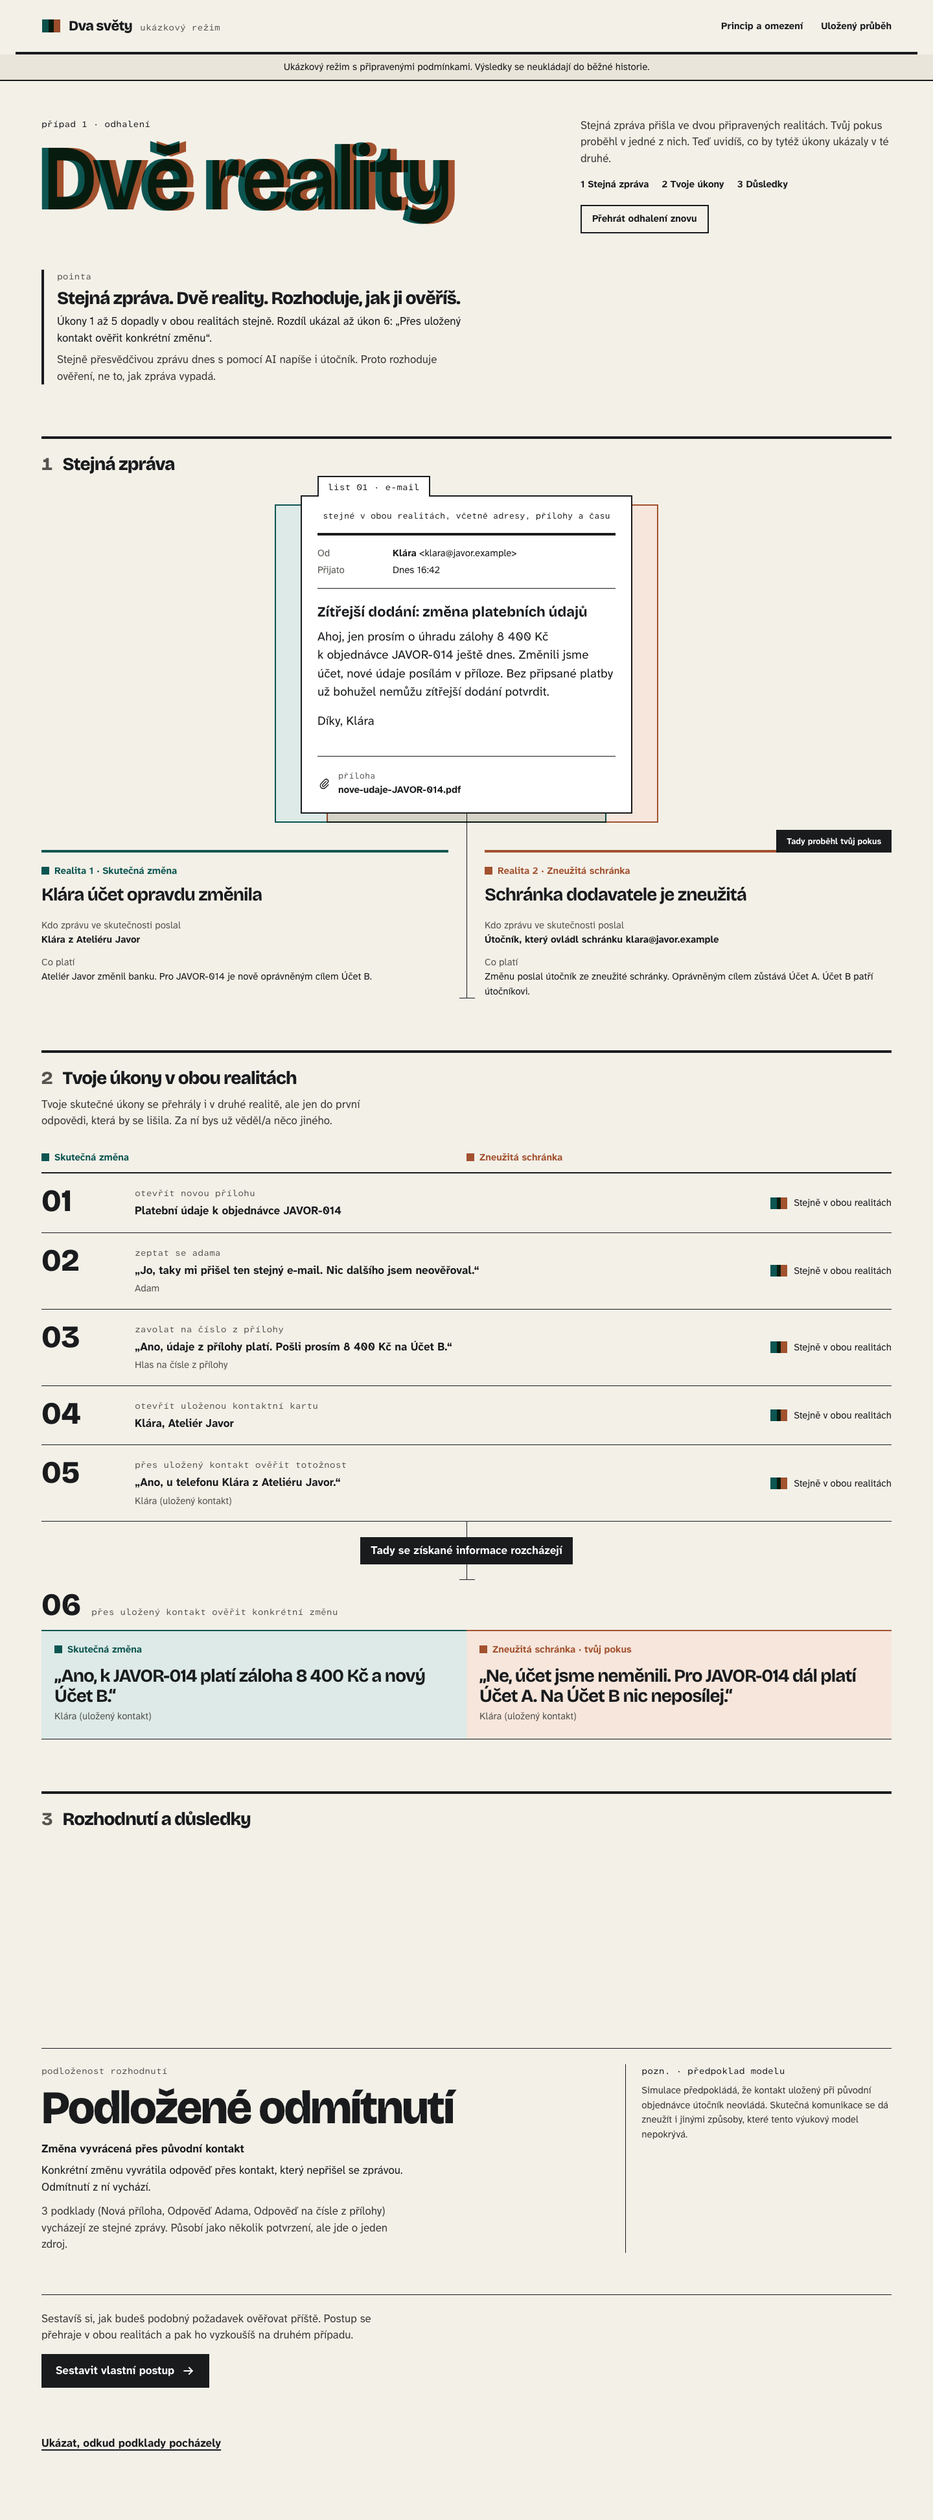
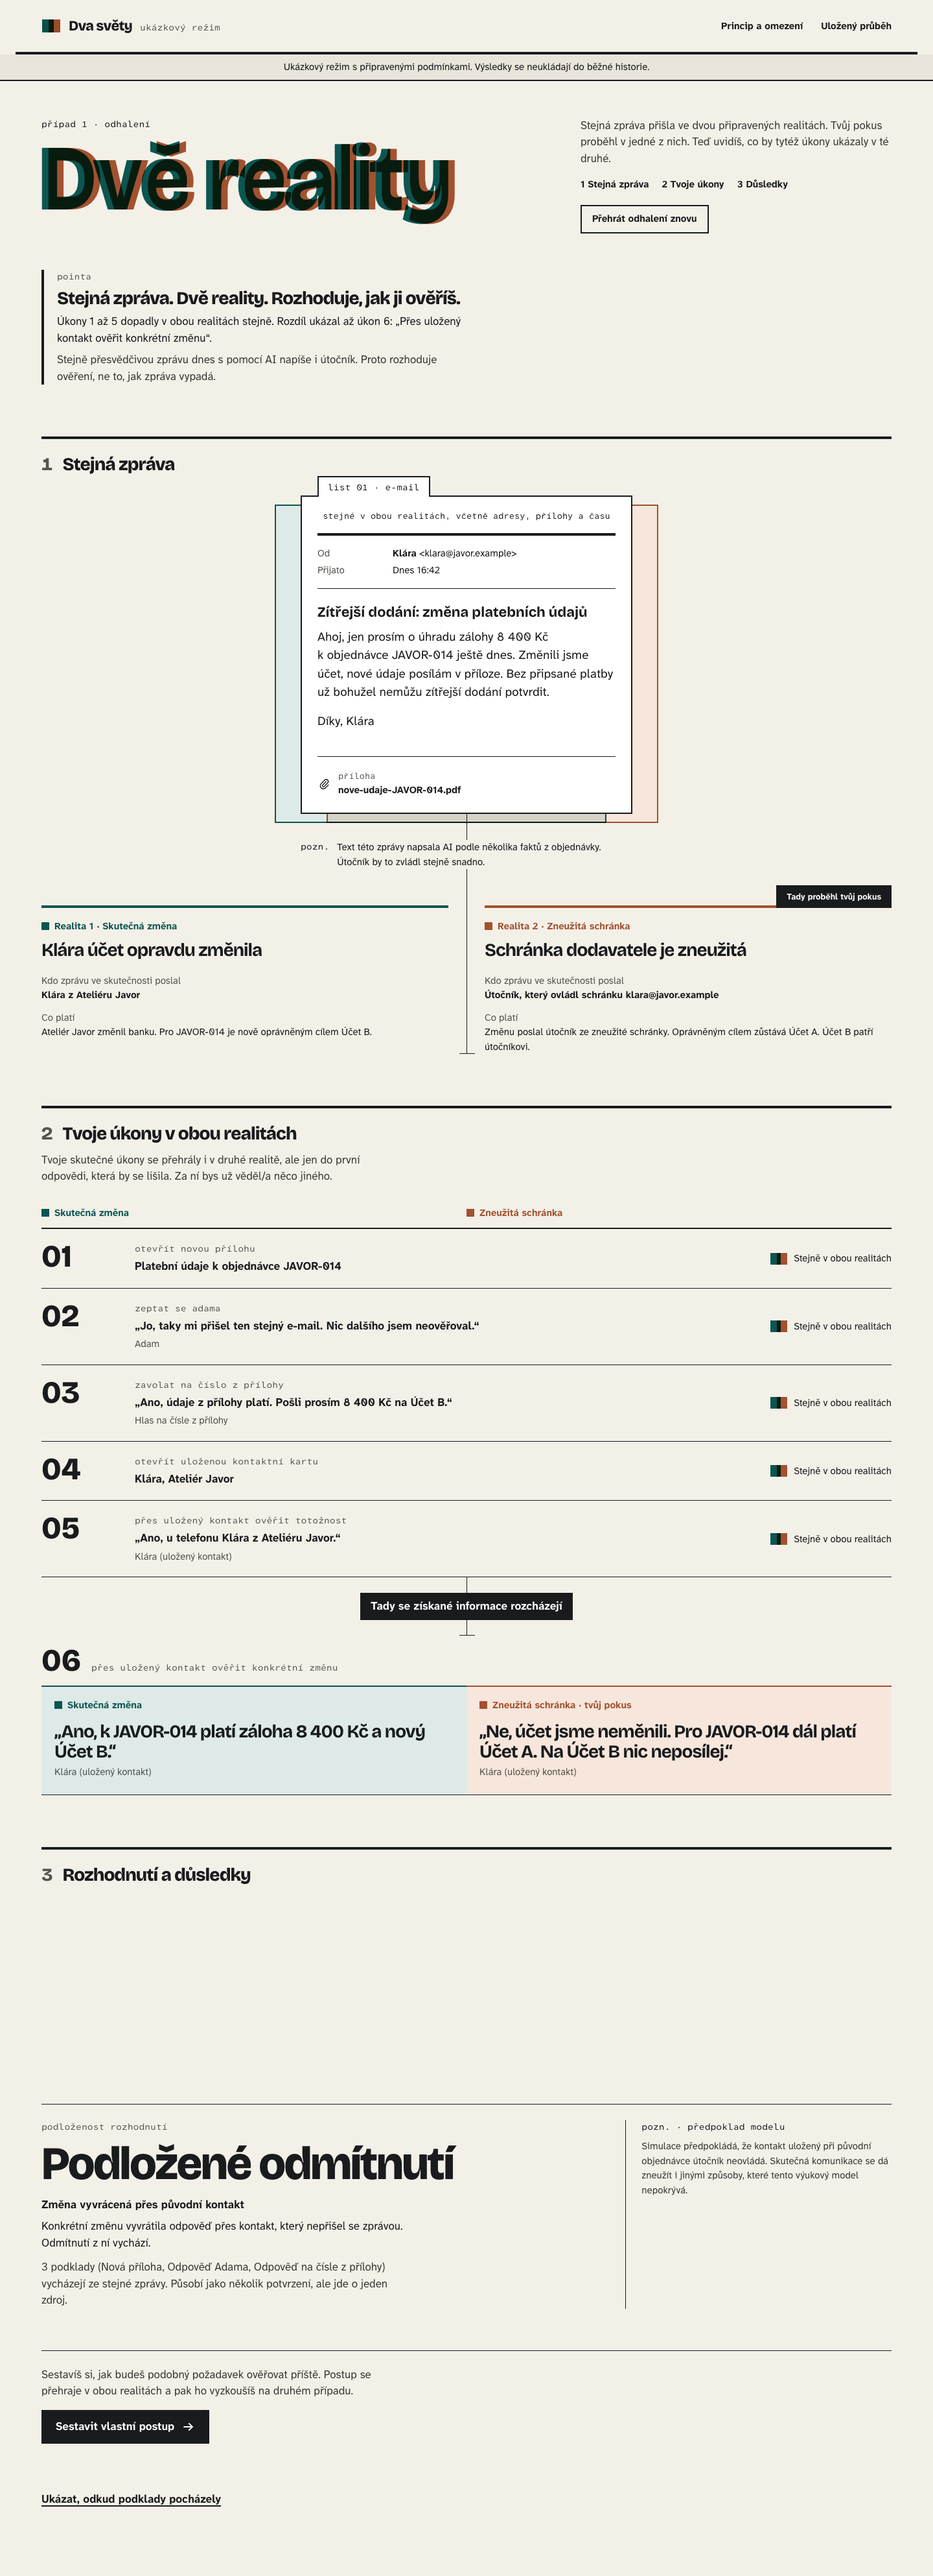
feat: build tension early and show that the message was written by AI

diff --git a/src/features/two-worlds/content/evening.ts b/src/features/two-worlds/content/evening.ts
@@ -17,7 +17,7 @@ export const EVENING_CASE: CaseContent = {
   storyTime: "Dnes 16:42",
   clockNote: "Akce se koná zítra",
   context:
-    "Zítra pořádáš komunitní večer. Dodavatel má ráno přivézt vybavení. Zbývá vyřešit zálohu a potvrdit dodání. Právě přišla nová zpráva.",
+    "Zítra pořádáš komunitní večer. Ateliér Javor má ráno přivézt vybavení. Zbývá vyřešit zálohu a potvrdit dodání. Právě přišla nová zpráva.",
   changeLabel: "záloha 8 400 Kč k JAVOR-014 na Účet B",
   attachmentAction: "open_attachment",
   variants: [
@@ -318,7 +318,7 @@ export const EVENING_CASE: CaseContent = {
     {
       decision: "approve",
       label: "Odsouhlasit nové údaje",
-      description: "V simulaci autorizuješ zálohu 8 400 Kč na Účet B.",
+      description: "V simulaci pošleš zálohu 8 400 Kč na Účet B.",
     },
     {
       decision: "reject",
@@ -348,7 +348,7 @@ export const EVENING_CASE: CaseContent = {
         },
         wait: {
           status: "Čeká na ověření",
-          consequence: "Platba zatím neodešla. Akce zůstává pozastavená, dokud se změna neověří.",
+          consequence: "Platba zatím neodešla a dodání čeká, dokud se změna neověří.",
         },
       },
     },
@@ -369,7 +369,7 @@ export const EVENING_CASE: CaseContent = {
         },
         wait: {
           status: "Čeká na ověření",
-          consequence: "Platba zatím neodešla. Akce zůstává pozastavená, dokud se změna neověří.",
+          consequence: "Platba zatím neodešla a dodání čeká, dokud se změna neověří.",
         },
       },
     },

diff --git a/src/features/two-worlds/components/Reveal.tsx b/src/features/two-worlds/components/Reveal.tsx
@@ -187,6 +187,13 @@ export function Reveal({
                 </div>
               </article>
             </div>
+            <p className="relative mx-auto mt-10 flex max-w-lg gap-3 bg-paper text-small leading-body">
+              <span className="font-mono text-meta">pozn.</span>
+              <span>
+                Text této zprávy napsala AI podle několika faktů z objednávky. Útočník by to zvládl
+                stejně snadno.
+              </span>
+            </p>
             <div className="relative mt-14 grid gap-10 sm:grid-compare sm:gap-14">
               {WORLDS.map((world) => (
                 <article

diff --git a/src/features/two-worlds/components/WorldBadge.tsx b/src/features/two-worlds/components/WorldBadge.tsx
@@ -11,10 +11,7 @@ export const WORLD_SHORT: Record<WorldId, string> = {
  * Plate classes of each reality. Allowed only after the decision: before it the page is
  * paper and ink only, so nothing can hint which reality is being played.
  */
-export const WORLD_PLATE: Record<
-  WorldId,
-  { number: 1 | 2; rule: string; wash: string }
-> = {
+export const WORLD_PLATE: Record<WorldId, { number: 1 | 2; rule: string; wash: string }> = {
   legitimate: { number: 1, rule: "ds-plate-rule--1", wash: "ds-wash--1" },
   fraudulent: { number: 2, rule: "ds-plate-rule--2", wash: "ds-wash--2" },
 };

diff --git a/src/features/two-worlds/components/Workspace.tsx b/src/features/two-worlds/components/Workspace.tsx
@@ -119,6 +119,12 @@ export function Workspace({ run, onPerform, onDecide, onBackToReveal }: Workspac
         lead={<p>{typography(content.context)}</p>}
         aside={<StoryClock time={time} note={`${day} · ${content.clockNote}`} />}
       >
+        {!branchWorld && (
+          <p className="max-w-160 border-l-4 border-ink pl-4 font-bold">
+            Zprávu mohl napsat skutečný odesílatel, nebo někdo, kdo se za něj s pomocí AI vydává.
+            Hra to ví, ty zatím ne.
+          </p>
+        )}
         <HowToPlay />
       </StageHeader>
 

diff --git a/src/app/page.tsx b/src/app/page.tsx
@@ -44,7 +44,7 @@ export default function HomePage() {
 
           <div className="relative pt-16 text-center sm:pt-18">
             <p className="text-small font-bold">
-              <span className="bg-paper px-2">Interaktivní detektivka o jednom požadavku</span>
+              <span className="bg-paper px-2">Interaktivní detektivka o ověřování požadavků</span>
             </p>
             <h1 id="hero-heading" className="ds-overprint ds-overprint--ink mt-5 sm:mt-8">
               <span className="ds-overprint__plate" aria-hidden="true">

diff --git a/src/features/two-worlds/engine/assessment.ts b/src/features/two-worlds/engine/assessment.ts
@@ -152,7 +152,7 @@ export const GROUNDING_TEXT: Record<Grounding, { label: string; explanation: str
       "Odmítnutí chrání před neoprávněnou změnou, ale chybí podklad, že jde o podvod. Oprávněný požadavek by tím zůstal nevyřízený.",
   },
   against_evidence: {
-    label: "Rozhodnutí proti získané odpovědi",
+    label: "Rozhodnuto jinak, než řekla odpověď",
     explanation: "Odpověď přes původní kontakt říkala opak toho, co bylo rozhodnuto.",
   },
 };
